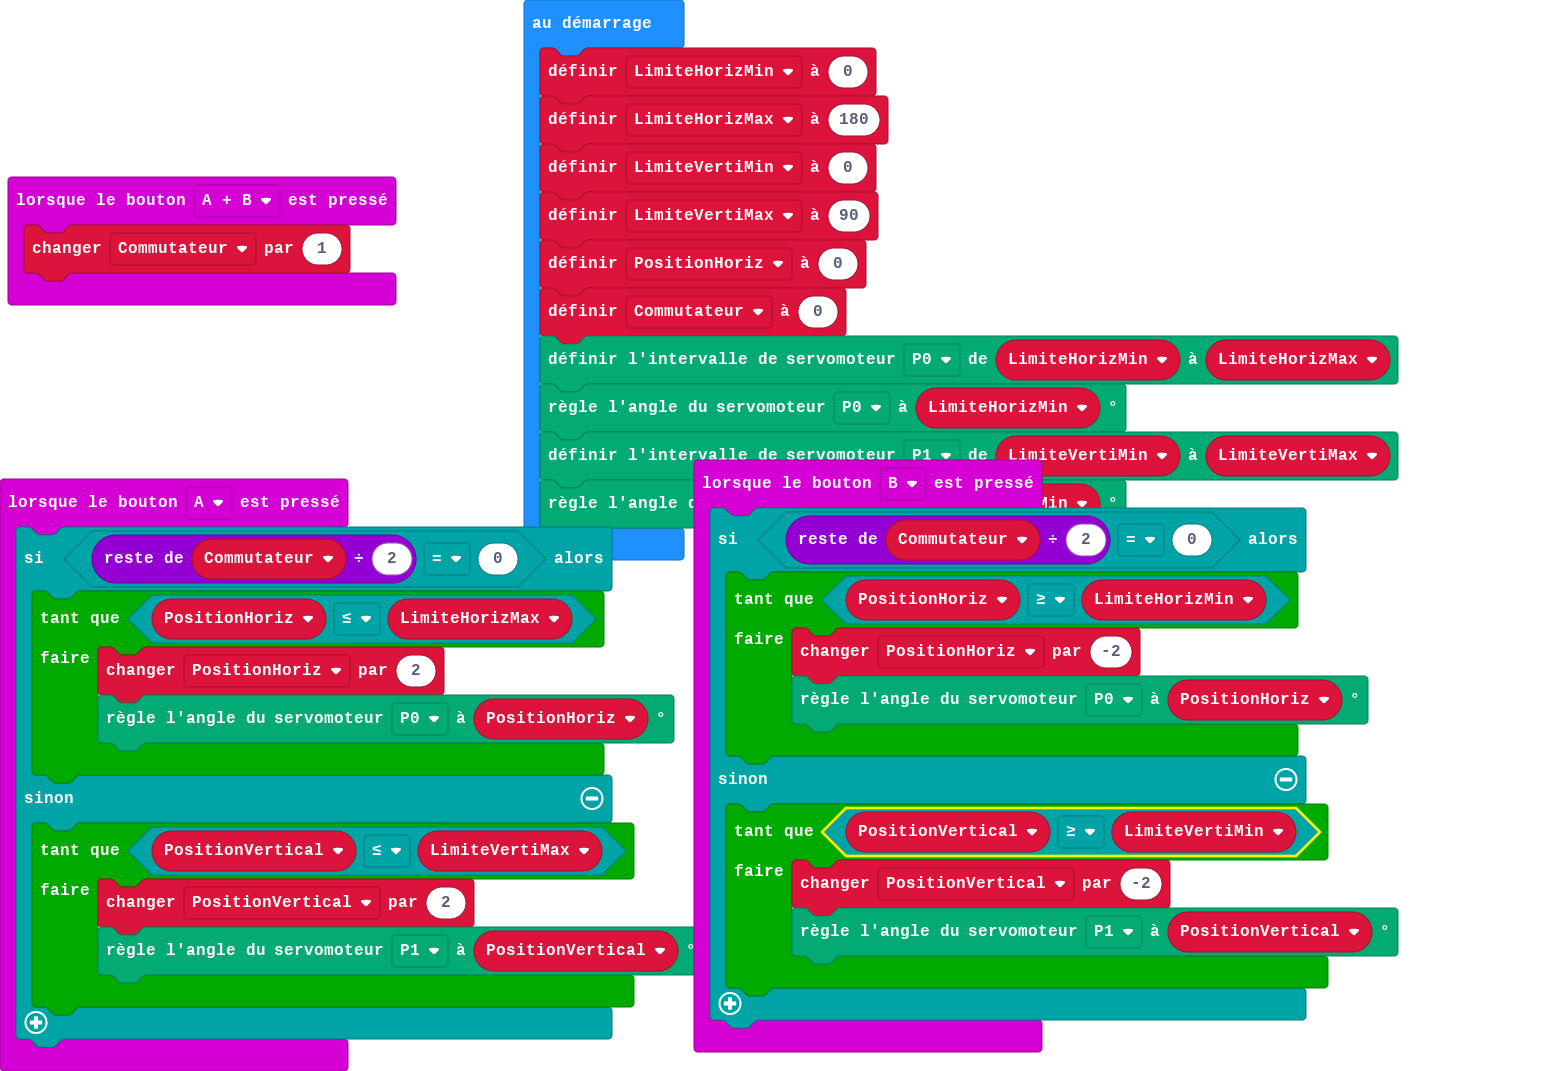
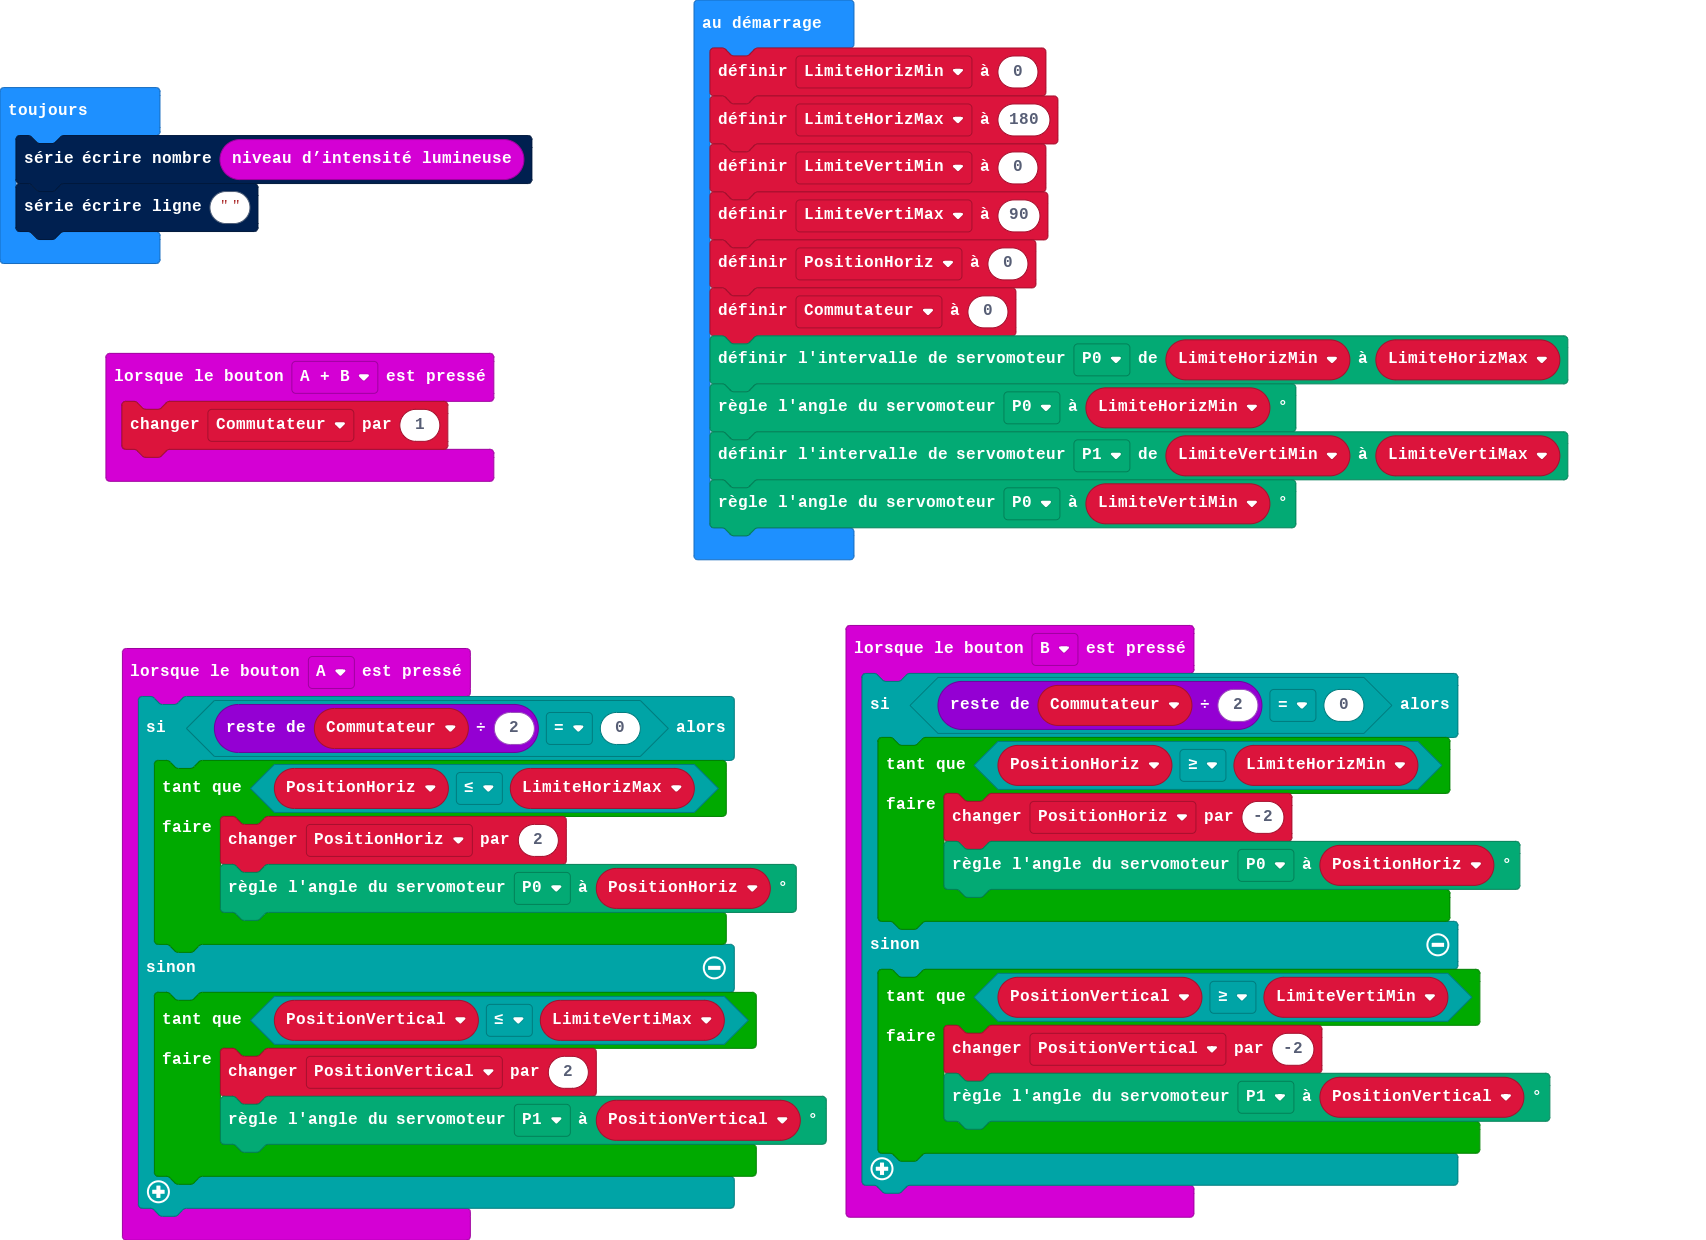
Mettre à jour main.blocks, main.ts

diff --git a/main.ts b/main.ts
@@ -44,3 +44,7 @@ servos.P0.setRange(LimiteHorizMin, LimiteHorizMax)
 servos.P0.setAngle(LimiteHorizMin)
 servos.P1.setRange(LimiteVertiMin, LimiteVertiMax)
 servos.P0.setAngle(LimiteVertiMin)
+basic.forever(function () {
+    serial.writeNumber(input.lightLevel())
+    serial.writeLine("")
+})
